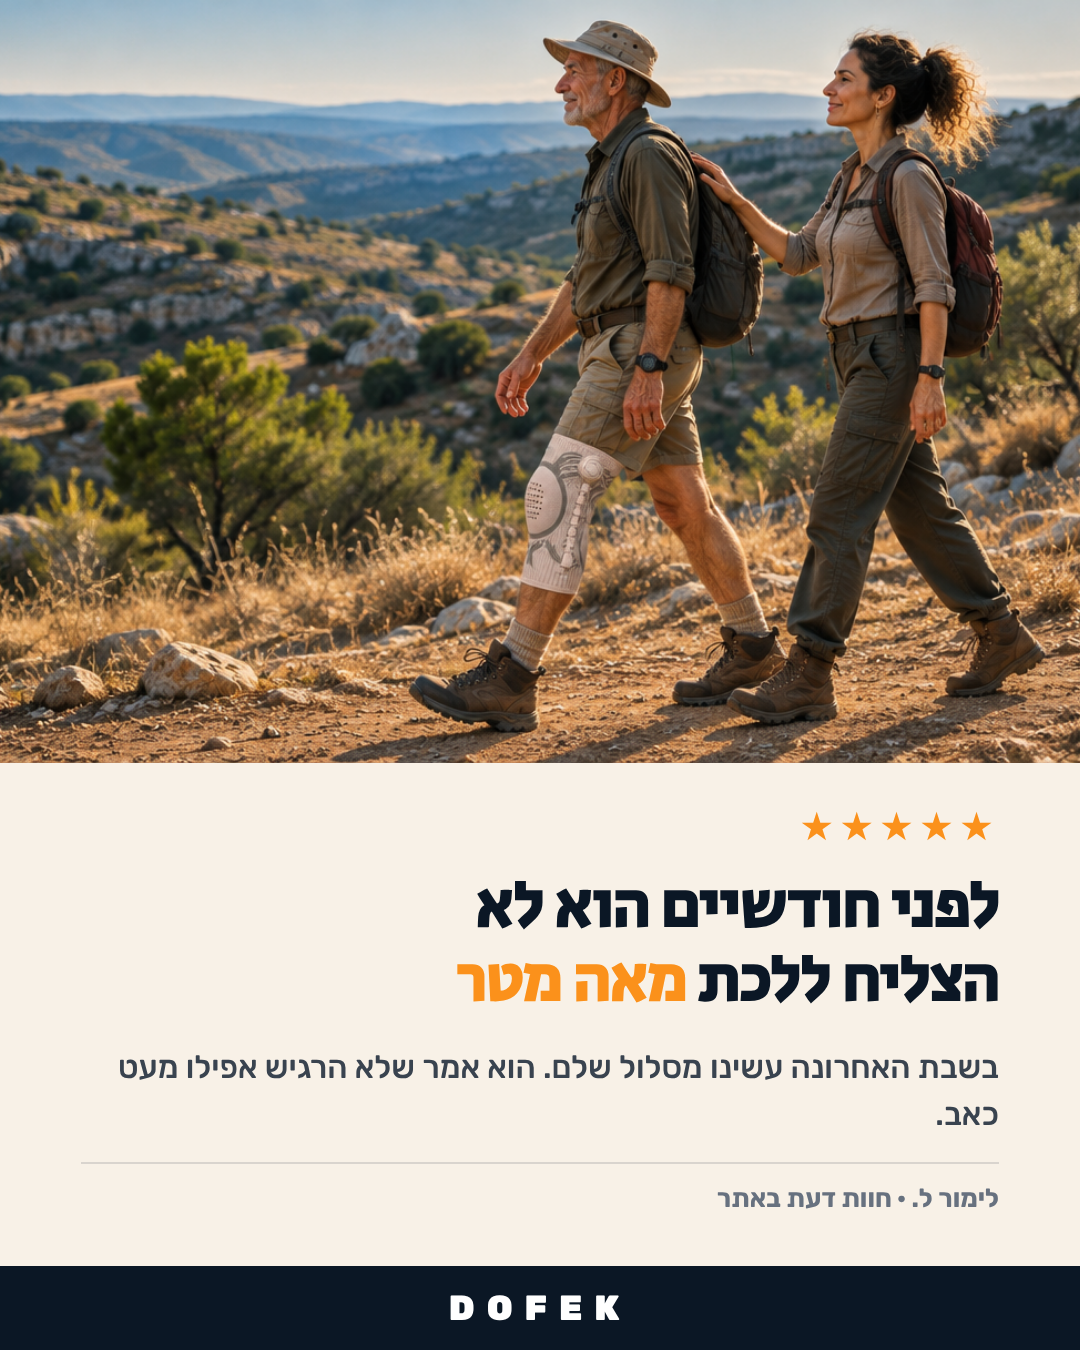
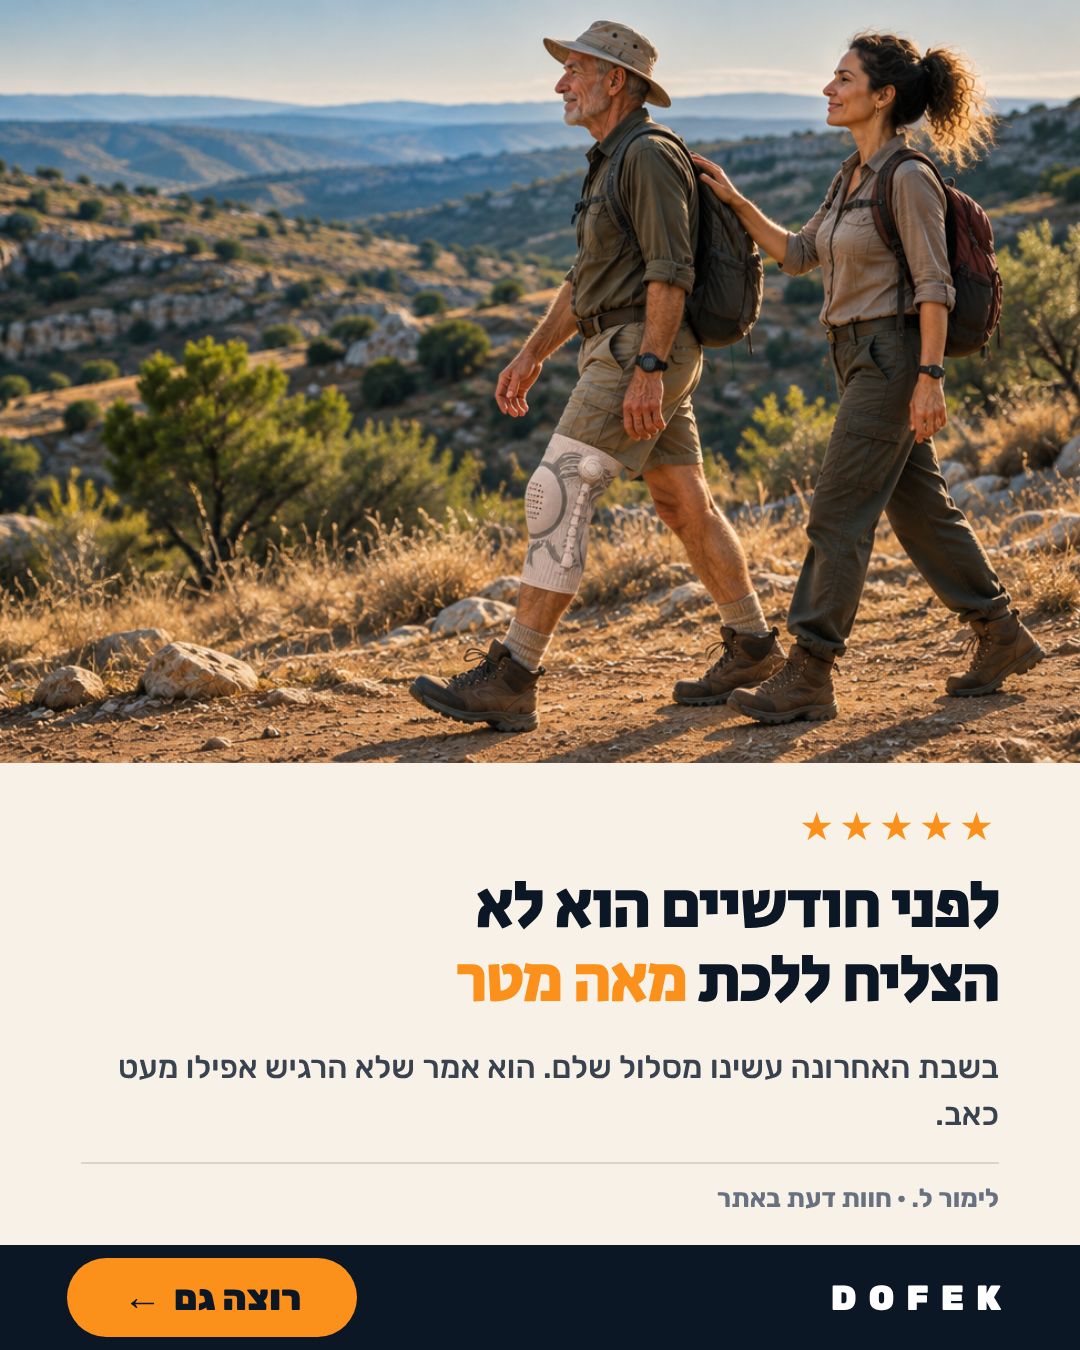
add a CTA pill to the footer
"רוצה גם" rather than "לחץ כאן": it continues the quote in the same first
person, and a "click here" on a static image imitates an interface element,
which is what marks the two existing ads in the account as a policy risk. A
styled CTA pill is ordinary ad design; a drawn button with a cursor is not.

Claude-Session: https://claude.ai/code/session_01L77BxqNt87QLWb9joW6UGc

Changed region(s): [[0.0, 0.9022, 1.0, 0.9956]]

diff --git a/variants/dofek/ads/concepts/renders/mk7.js b/variants/dofek/ads/concepts/renders/mk7.js
@@ -17,7 +17,7 @@ body{font-family:Rubik,'Liberation Sans',sans-serif;background:${CREAM};overflow
   background-position:${a.pos};transform:scale(${a.zoom})}
 
 /* TEXT — its own panel, below the photo */
-.tx{position:absolute;top:${a.phH}px;left:0;right:0;bottom:${Math.round(H*0.062)}px;background:${CREAM};
+.tx{position:absolute;top:${a.phH}px;left:0;right:0;bottom:${Math.round(H*0.078)}px;background:${CREAM};
   padding:${Math.round(H*0.030)}px ${Math.round(W*0.075)}px 0;text-align:right}
 .st{color:${OR};font-size:${Math.round(W*0.036)}px;letter-spacing:5px;margin-bottom:${Math.round(H*0.015)}px}
 h1{font-family:'Secular One';font-size:${Math.round(W*0.060)}px;line-height:1.14;color:${NAVY};letter-spacing:-.022em}
@@ -26,8 +26,11 @@ h1 em{font-style:normal;color:${OR}}
 .who{margin-top:${Math.round(H*0.018)}px;padding-top:${Math.round(H*0.014)}px;border-top:2px solid rgba(11,23,37,.13);
   font-size:${Math.round(W*0.0245)}px;font-weight:700;color:#67717F}
 
-.bar{position:absolute;bottom:0;left:0;right:0;height:${Math.round(H*0.062)}px;background:${NAVY};
-  display:flex;align-items:center;justify-content:center}
+.bar{position:absolute;bottom:0;left:0;right:0;height:${Math.round(H*0.078)}px;background:${NAVY};
+  display:flex;align-items:center;justify-content:space-between;padding:0 ${Math.round(W*0.062)}px}
+.cta{background:${OR};color:${NAVY};font-weight:900;font-size:${Math.round(W*0.0335)}px;
+  padding:${Math.round(H*0.0135)}px ${Math.round(W*0.052)}px;border-radius:999px;display:flex;align-items:center;gap:12px}
+.cta span{font-size:${Math.round(W*0.036)}px;line-height:1}
 .pr{color:#fff;font-weight:900;font-size:${Math.round(W*0.0315)}px}.pr b{color:${OR}}
 .lg{color:#fff;font-weight:900;font-size:${Math.round(W*0.032)}px;letter-spacing:.34em}
 </style></head><body>
@@ -36,7 +39,7 @@ h1 em{font-style:normal;color:${OR}}
 <h1>${a.head}</h1>
 <div class="q">${a.q}</div>
 <div class="who">${a.who}</div></div>
-<div class="bar"><div class="lg">DOFEK</div></div>
+<div class="bar"><div class="lg">DOFEK</div><div class="cta">רוצה גם <span>&#8592;</span></div></div>
 </body></html>`;
 
 const ADS=[

diff --git a/variants/dofek/ads/concepts/2026-11-24-sketches.md b/variants/dofek/ads/concepts/2026-11-24-sketches.md
@@ -403,3 +403,19 @@ A, B ו-C אושרו. D נפסלה על שתי סיבות, ושתיהן נכונ
 
 **הצילום:** שוק ישראלי, סידור ארגזים, אור אחר הצהריים. «עומד הרבה שעות»
 נראה בפריים במקום להיאמר בלבד — וזה גם מקום שהקהל הזה מזהה מיד.
+
+## סבב 9 — CTA בפס התחתון
+
+נוסף **«רוצה גם ←»** בכדור כתום, מול הלוגו.
+
+**למה «רוצה גם» ולא «לחץ כאן»:**
+
+1. הוא ממשיך את הסיפור בגוף ראשון — אותה שפה של הציטוט שמעליו. מי שקרא
+   «שבועיים ברצף אני לוקחת את הנכדים מהגן» וחושב "גם אני רוצה" מקבל בדיוק
+   את המילים שלו.
+2. **«לחץ כאן» על תמונה סטטית מחקה אלמנט ממשק.** זה בדיוק מה שמסמן את שתי
+   המודעות הקיימות בחשבון כסיכון מדיניות במטא, ולפי אווטר 4 גם מה שגורם
+   לבן 70 לדלג.
+
+ההבדל: כדור CTA מעוצב הוא עיצוב מודעה סטנדרטי. כפתור מזויף עם סמן יד מצויר
+הוא חיקוי ממשק. הראשון בסדר, השני לא.
